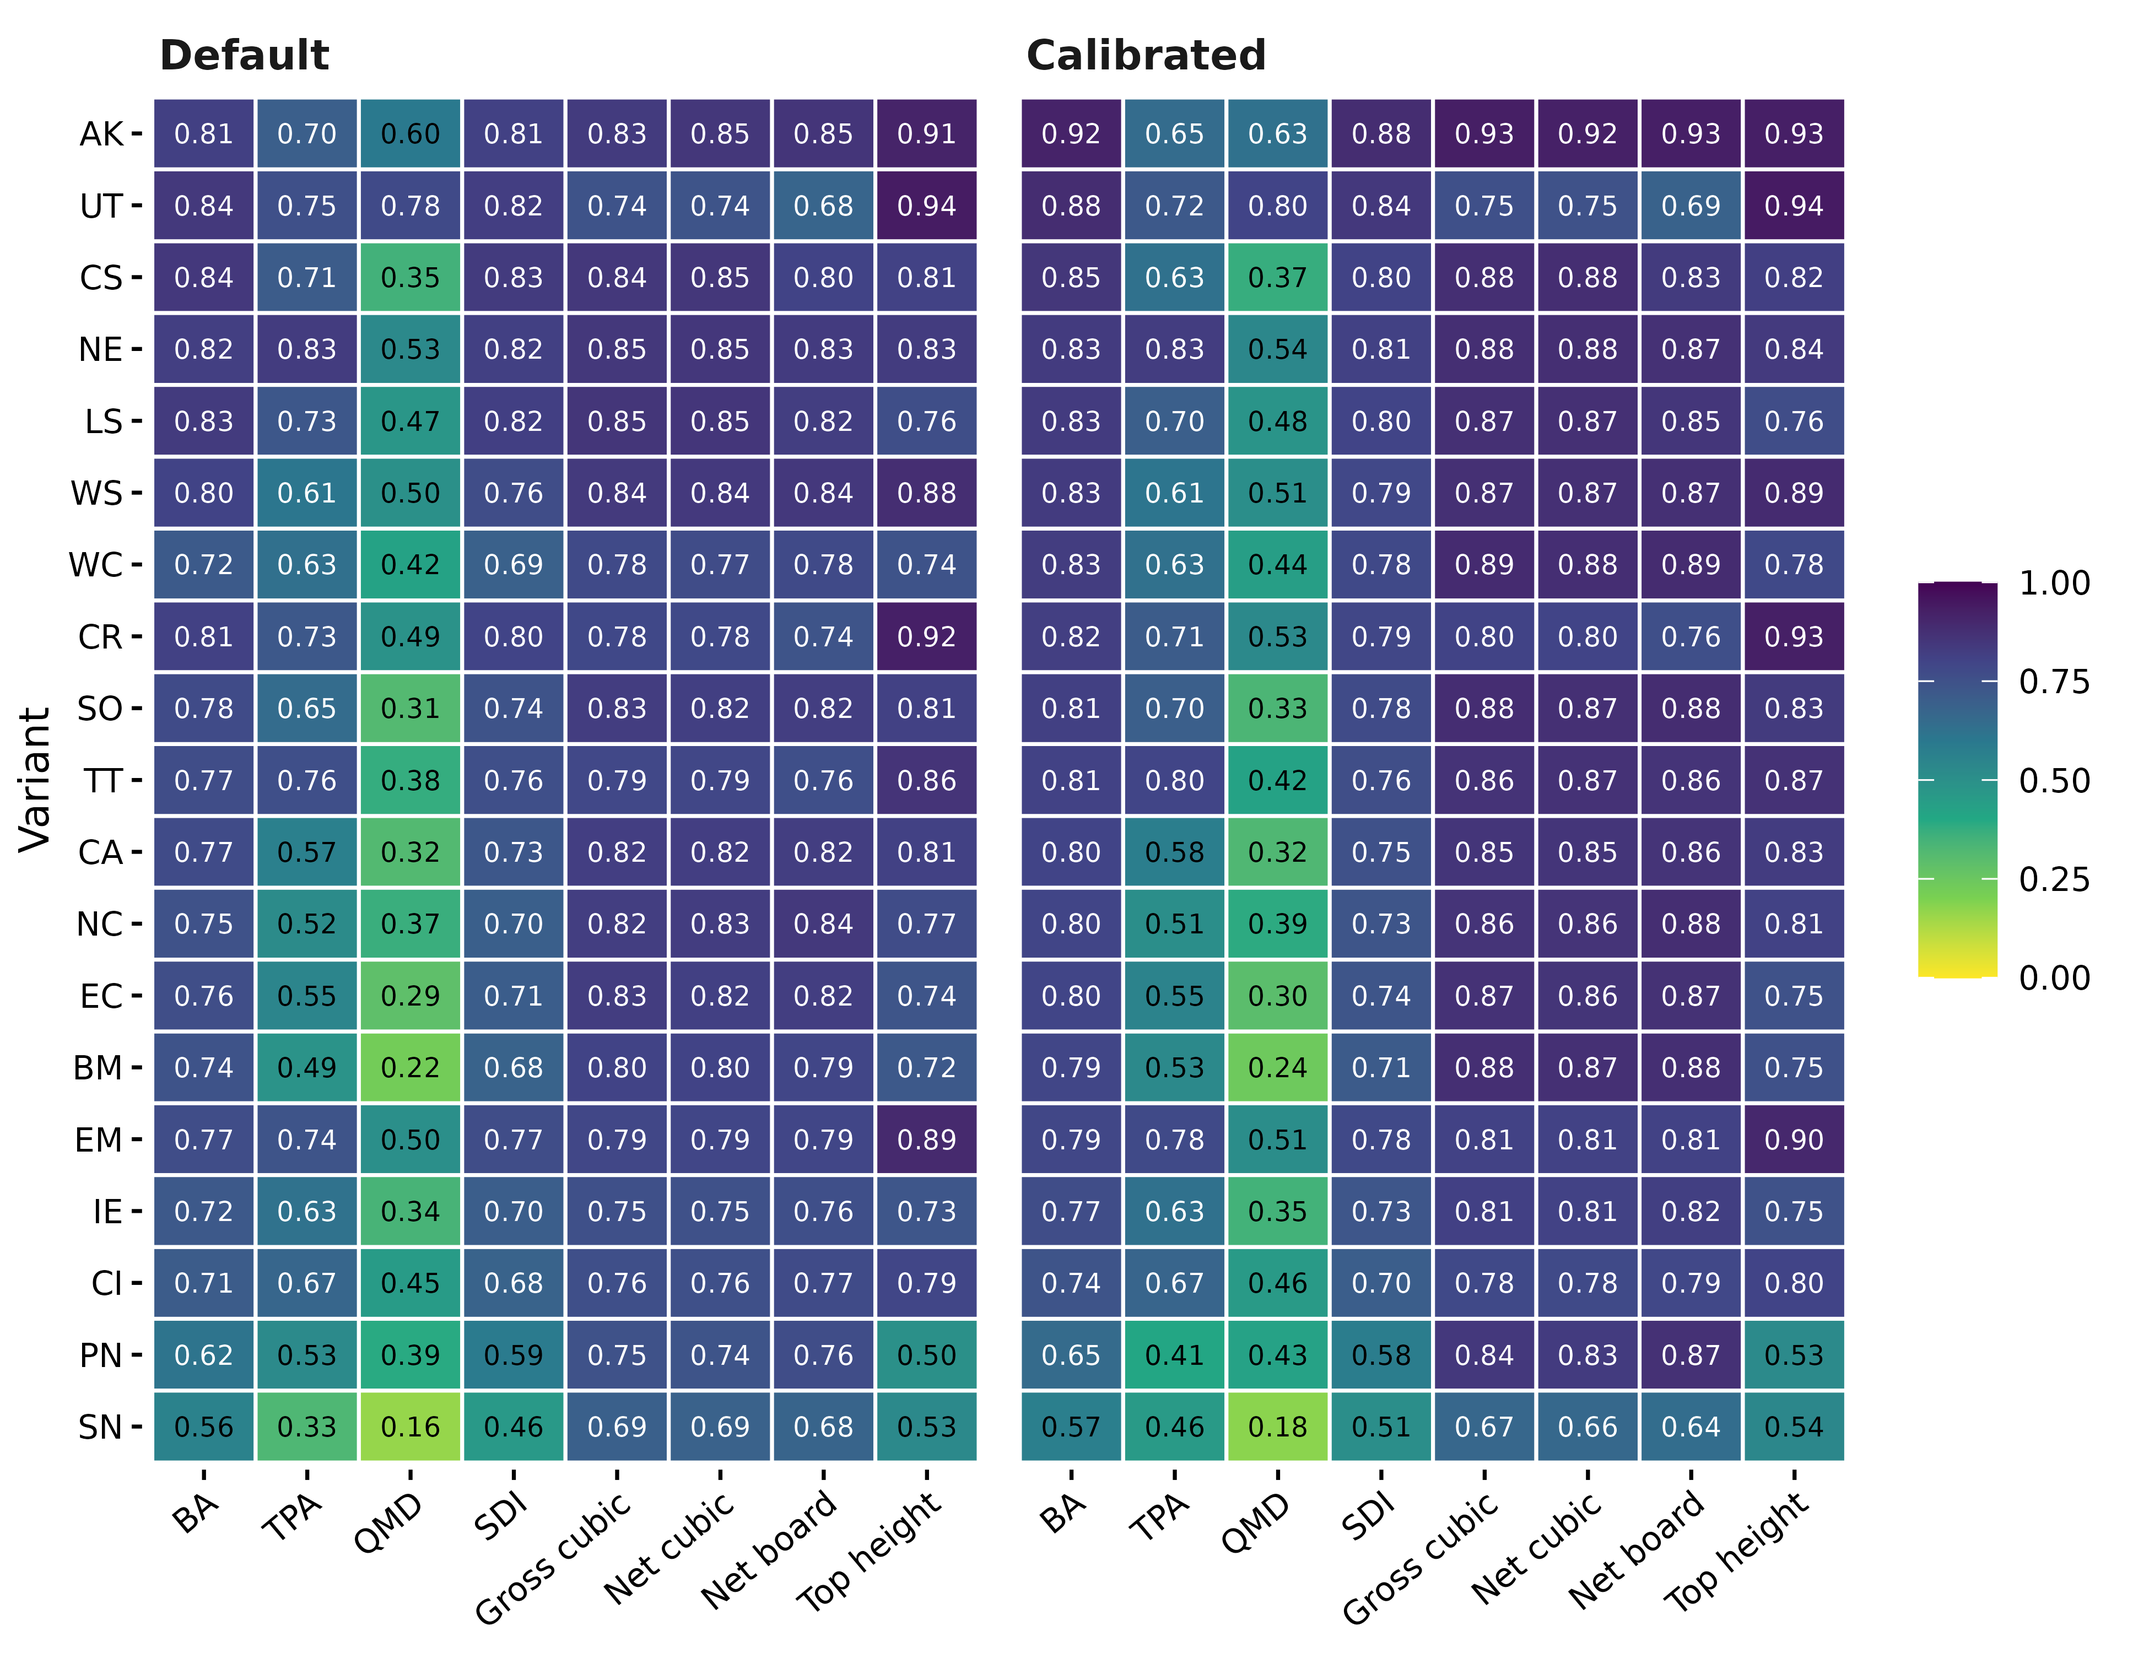
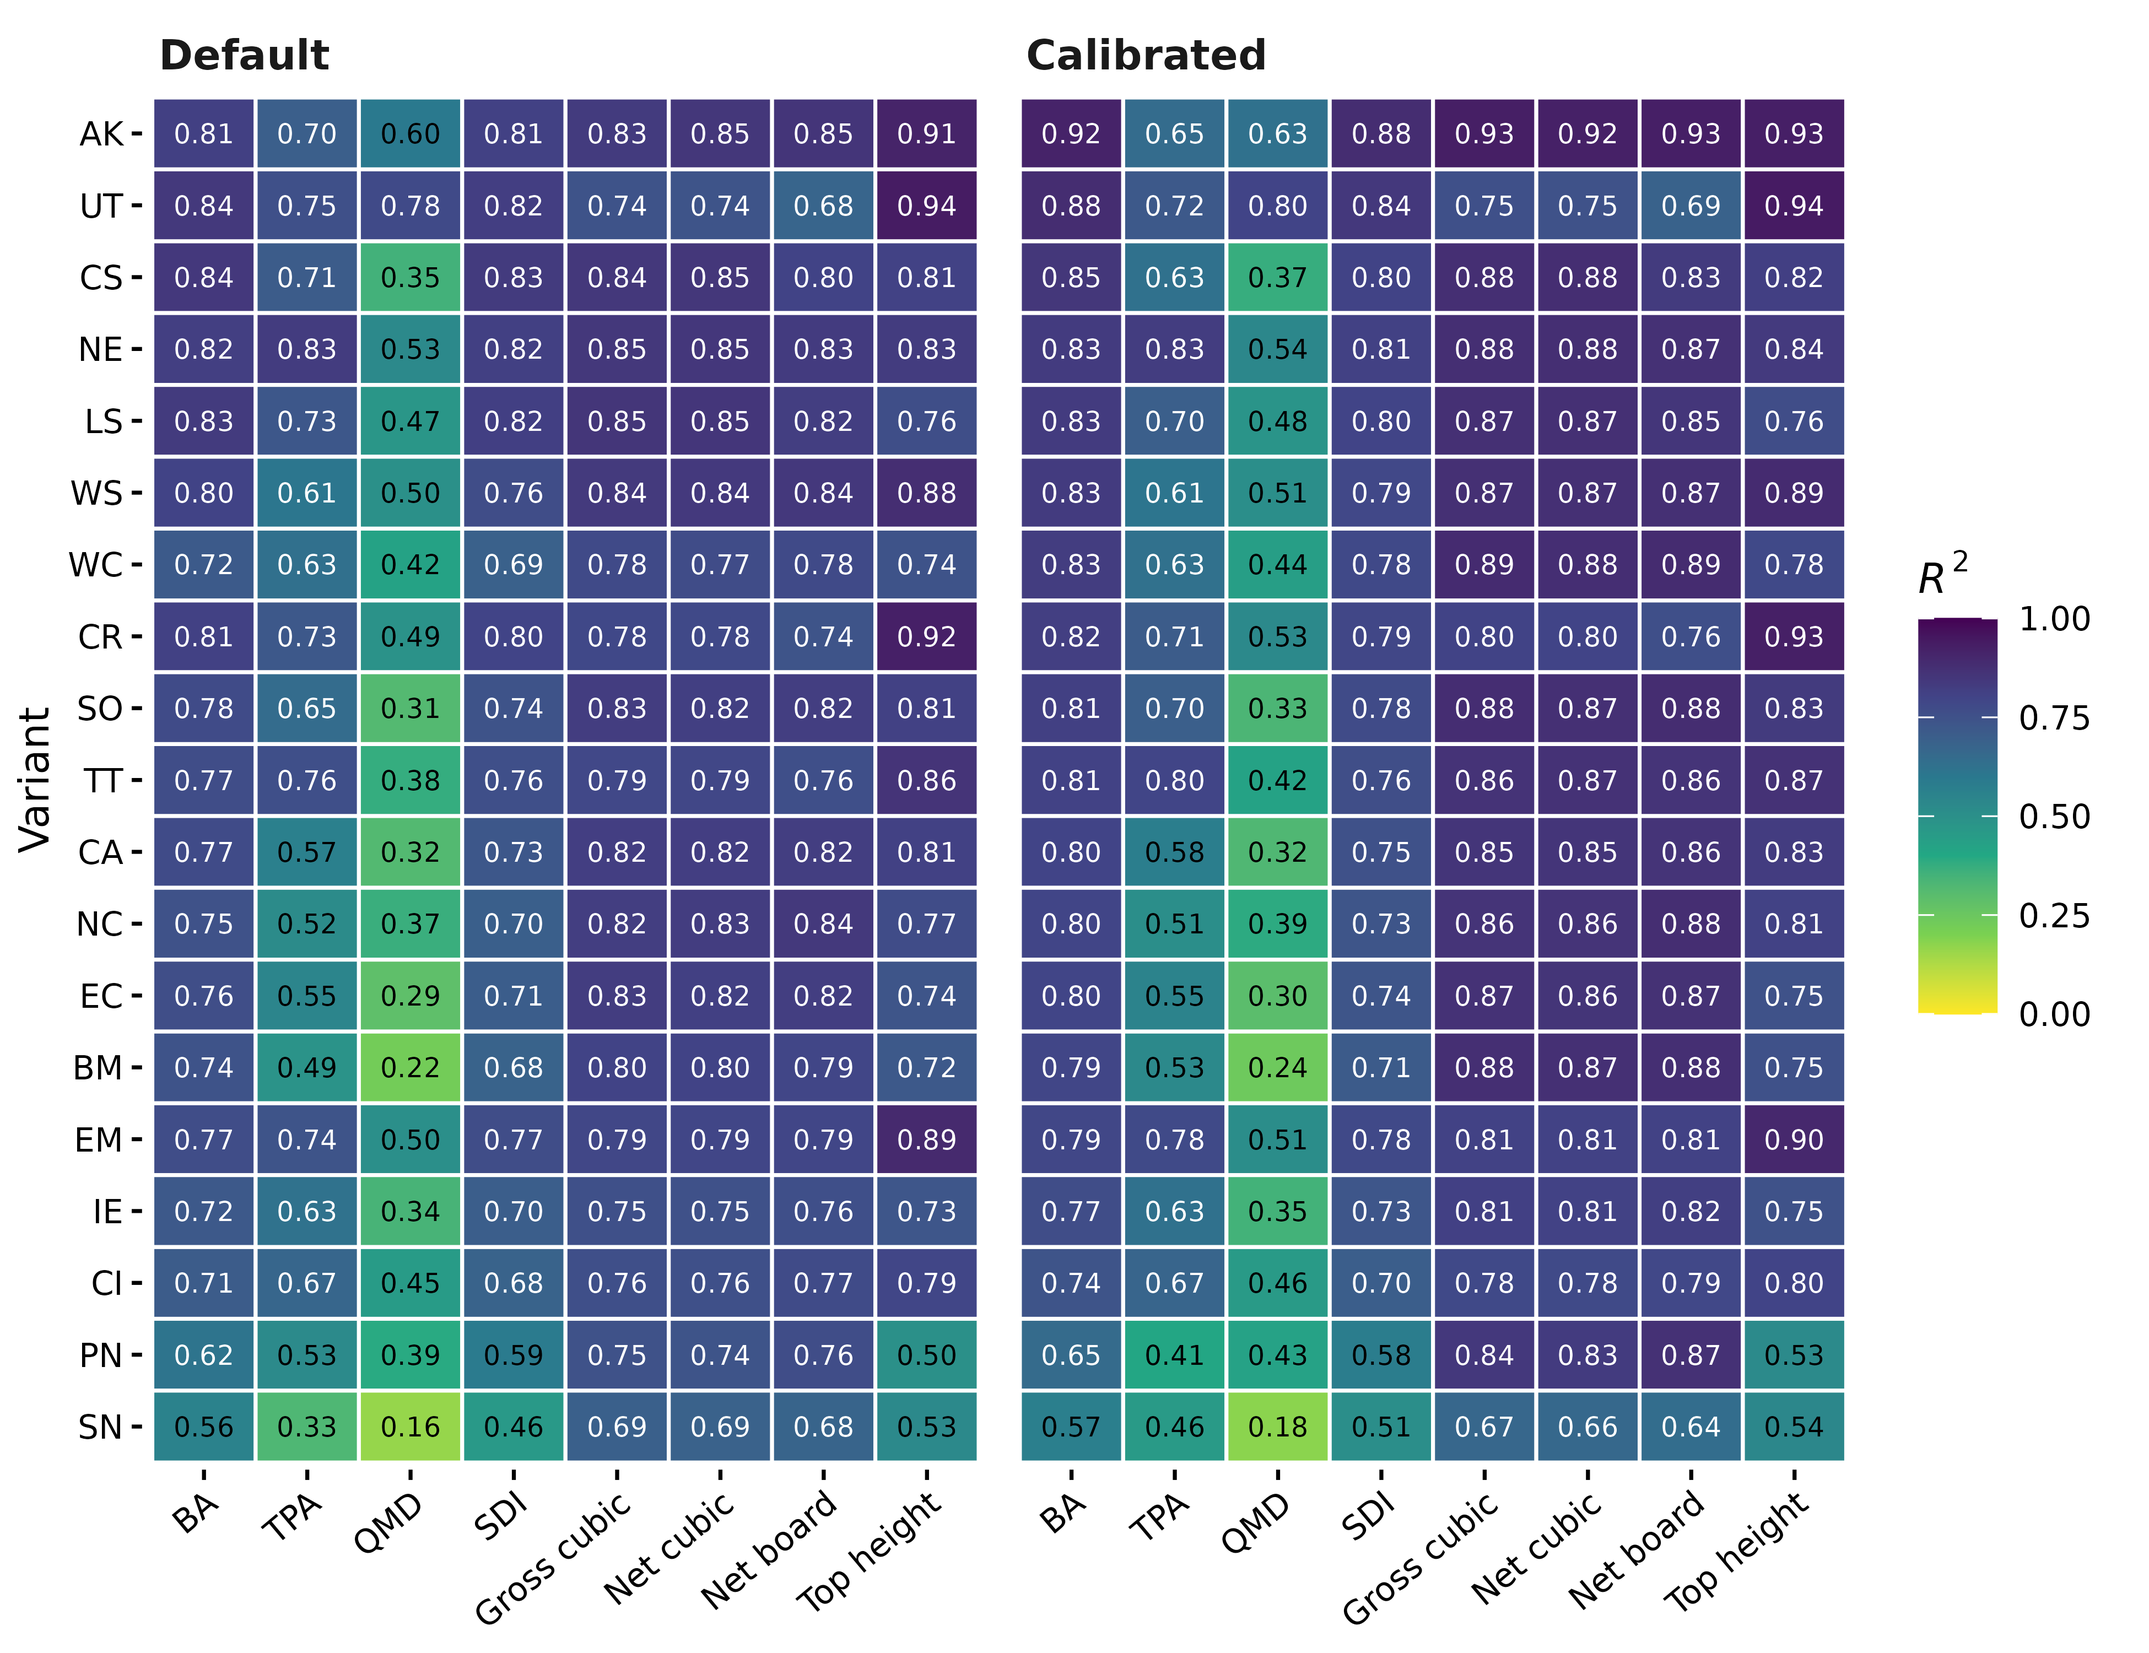
manuscript: Figure 3 by region from ablation_full, section 4.2 and Table 3 matched to component tables, Figure 5 legend
Claude-Session: https://claude.ai/code/session_01MGtWXxweVm1tRm13XUggpv

Changed region(s): [[0.8687, 0.496, 0.9928, 0.62], [0.8687, 0.341, 0.9618, 0.434], [0.9308, 0.465, 0.9618, 0.496]]

diff --git a/manuscript/fvs_combined_draft.md b/manuscript/fvs_combined_draft.md
@@ -550,44 +550,41 @@ modern workstation is 10 to 20 minutes.
 
 All 25 variants calibrated successfully for all seven components.
 Height to diameter models achieved R squared values ranging from
-0.74 (Alaska) to 0.90 (Klamath Mountains) with a mean of 0.85,
-compared to baseline models with mean R squared of 0.82. Wykoff
+0.75 (Eastern Montana) to 0.90 (Inland California and Southern
+Cascades) with a mean of 0.84, compared to baseline models with mean
+R squared of 0.81. Wykoff
 diameter growth fits achieved a mean R squared of 0.56 (SD 0.10,
 range 0.31 to 0.69), with the strongest fits in the Acadian (0.69),
 Klamath Mountains (0.68), Westside Cascades (0.68), ORGANON Pacific
 Northwest (0.66), and Northeast (0.65) variants and the weakest in the more
 arid and topographically variable variants (BC 0.31, PN as a value
 of 0.34 reflects the subset retained after the 5K subsample fallback,
-UT 0.40, CR 0.41, BM 0.45). Mortality AUC values ranged from 0.66
-(Southern Old Growth) to 0.93 (British Columbia, Ontario, Acadian)
-with a mean of 0.78, with 15 of 25 variants exceeding 0.85. These
-v2 figures are computed on the full FIA dataset with posterior
-median coefficients and are not directly comparable to the v1
-internal AUC of 0.766 reported in an earlier draft, which was
-evaluated on a balanced subsample with 1:1 alive-to-dead matching.
-The v2 numbers are the more conservative and operationally
-relevant: balanced-subsample AUC overstates the prevalence-corrected
-discriminatory ability when applied to whole-stand projections,
-where dead trees are the minority class. Per-variant v1 vs v2
-deltas computed on the common holdout set range from -0.020 to
-+0.004 AUC, confirming that the apparent regression in the headline
-figure is entirely a sampling-protocol artifact rather than a
-genuine loss of model quality. Crown
-ratio change R squared averaged 0.23 under the v1 delta model and
-0.53 under the v2 Beta regression on crown ratio level, a 142
-percent relative improvement that holds across all 25 variants;
-the v2 specification is consistent with the inherently bounded
-nature of crown ratio as a level rather than as a change. The
-largest gains accrued to the western and arid variants. UT, EM,
-CR, KT, and AK each saw v2 R squared above 0.60 (relative
-improvements ranging from 237 to 346 percent), confirming that
-the bounded Beta likelihood is particularly informative where
+UT 0.40, CR 0.41, BM 0.45). Mortality AUC, evaluated on a
+balanced subsample with 1:1 alive-to-dead matching (v1), ranged
+from 0.66 (Inland California and Southern Cascades) to 0.93
+(Acadian) with a mean of 0.77, and 7 of 25 variants exceeded 0.85
+(Alaska, Pacific Northwest Coast, Central States, Lake States,
+Ontario, Northeast, and Acadian). Balanced-subsample AUC overstates
+discrimination in whole-stand projections, where dead trees are the
+minority class, so seven western variants were also scored on the
+full FIA data with posterior median coefficients (v2). Their AUC
+ranged from 0.64 to 0.71 (mean 0.67), between 0.001 and 0.020 below
+the v1 values for the same variants, so the change in protocol
+lowers AUC only slightly. Crown
+ratio change R squared averaged 0.24 under the v1 delta model and
+0.53 under the v2 Beta regression on crown ratio level. R squared
+rose in all 25 variants, by 142 percent on average across variants,
+consistent with the inherently bounded nature of crown ratio as a
+level rather than as a change. The largest gains accrued to western
+variants. AK, WS, EM, KT, UT, and CR reached v2 R squared above
+0.60, with relative improvements from 159 to 347 percent, consistent
+with the bounded Beta likelihood is particularly informative where
 inter-tree crown ratio variance is high and the v1 normal-on-delta
 specification was furthest from the response support. Figure 6a
 visualizes the per-variant v1 to v2 improvement as a dumbbell plot;
 no variant moved backward.
 
-![Figure 6a. Crown ratio R squared by variant under the v1 delta-CR Normal regression (open marker) and the v2 level-CR Beta regression (filled marker). The v2 specification improves R squared in every variant; the largest gains occur in the arid and high-elevation variants (UT, EM, CR, KT, AK) where the bounded support of the response is most informative.](../calibration/output/comparisons/manuscript_figures/fig_cr_v1_v2_comparison.png){width=6in} Stand
+![Figure 6a. Crown ratio R squared by variant under the v1 delta-CR Normal regression (open marker) and the v2 level-CR Beta regression (filled marker). The v2 specification improves R squared in every variant; the largest relative gains occur in AK, WS, EM, and KT.](../calibration/output/comparisons/manuscript_figures/fig_cr_v1_v2_comparison.png){width=6in} Stand
 density index maximum estimates were 10 to 43 percent lower than
 defaults across variants, suggesting that prior parameter sets
 systematically overestimated carrying capacity. Height increment
@@ -600,10 +597,10 @@ Table 3. Calibration quality summary by component across variants.
 
 | Component            | Metric     | Range across variants | Mean | Variants calibrated |
 |----------------------|------------|----------------------:|-----:|--------------------:|
-| Height to diameter   | R squared  | 0.74 to 0.90          | 0.85 | 25                  |
+| Height to diameter   | R squared  | 0.75 to 0.90          | 0.84 | 25                  |
 | Diameter growth      | R squared  | 0.31 to 0.69          | 0.56 | 25                  |
-| Mortality            | AUC        | 0.66 to 0.93          | 0.78 | 25                  |
-| Crown ratio change   | R squared  | 0.14 to 0.38          | 0.23 | 25                  |
+| Mortality            | AUC (v1)   | 0.66 to 0.93          | 0.77 | 25                  |
+| Crown ratio change   | R squared  | 0.14 to 0.38          | 0.24 | 25                  |
 | Stand density max    | SDI delta  | 10 to 43 percent lower| 22   | 25                  |
 | Height increment     | R squared  | 0.22 to 0.30          | 0.25 | 6                   |
 | Self thinning slope  | b departure| -0.12 to +0.09        | -0.04| 25                  |
@@ -660,13 +657,14 @@ Table 1. FIA national benchmark results summary (19 variants).
 
 Figure 2 shows basal area and gross cubic foot volume RMSE per
 variant under default and calibrated parameters, with 95 percent
-bootstrap intervals on the calibrated RMSE. Figure 3 is the accompanying
-geographic view: a hex binned CONUS map of composite RMSE reduction
-after calibration, showing that improvement is widespread but
-strongest in the Westside Cascades (WC) and Alaska, followed by the
-Klamath Mountains and portions of the Inland West. The Pacific
-Northwest Coast (PN) gain is small, and its bootstrap interval
-includes zero. Figure 4 compares a composite percent RMSE, the
+bootstrap intervals on the calibrated RMSE. Figure 3 groups the
+percent reduction in basal area RMSE by region. Improvement is
+strongest in Alaska and the Westside Cascades (WC), followed by Utah,
+with the Klamath and Blue Mountains near 10 percent, and is small in
+the eastern variants. The
+interval includes zero in nine variants, among them the Pacific
+Northwest Coast (PN), where the reduction cannot be distinguished
+from no change. Figure 4 compares a composite percent RMSE, the
 equally weighted mean of percent RMSE for basal area, stand density
 index, quadratic mean diameter, and gross cubic foot volume. The
 composite fell in all 19 variants, by 8.5 percentage points in Alaska
@@ -676,7 +674,7 @@ parameter sets.
 
 ![Figure 2. Internal FIA benchmark RMSE by variant for (a) basal area (ft² ac⁻¹) and (b) gross cubic foot volume (ft³ ac⁻¹) under default (open circles) and calibrated (filled circles) parameters. Bars are 95 percent percentile intervals from 1,000 bootstrap resamples of conditions on the calibrated RMSE. Variants are ordered by percent reduction in basal area RMSE. Values are in sample (see §3.1).](figures_20261019/fig2_benchmark_rmse.png){width=6.5in}
 
-![Figure 3. CONUS spatial distribution of percent RMSE reduction after Bayesian calibration, hex binned over FIA plot locations. Blue indicates larger reductions; red indicates the small number of plots where default outperformed calibrated. Largest improvements appear in the Westside Cascades, Alaska proxy, and portions of the Northeast. The Pacific Northwest Coast (PN) gain is small, and its bootstrap interval includes zero.](../calibration/output/comparisons/manuscript_figures/pctrmse_reduction_spatial.png){width=6.5in}
+![Figure 3. Percent reduction in basal area RMSE after calibration by variant, grouped by region, with 95 percent percentile intervals from 1,000 bootstrap resamples of conditions on the calibrated RMSE. Grey marks variants whose interval includes zero. Values are in sample (see §3.1).](figures_20261019/fig3_ba_rmse_reduction_by_region.png){width=6.5in}
 
 ![Figure 4. Composite percent RMSE by variant under default (open circles) and calibrated (filled circles) parameters. The composite is the equally weighted mean of percent RMSE (RMSE as a percentage of the observed mean) for basal area, stand density index, quadratic mean diameter, and gross cubic foot volume. Composite error was lower after calibration in all 19 variants, and variants are ordered by the size of the reduction.](figures_20261019/fig4_composite_pctrmse_dumbbell.png){width=6.5in}
 
@@ -981,7 +979,8 @@ The Chapman Richards height to diameter model contributes the next
 largest share, largely by reducing systematic negative bias in tree
 height estimates that otherwise propagate into volume calculations.
 The mortality calibration delivered high classification accuracy
-(mean AUC 0.78, with 15 variants above 0.85) primarily through
+(mean AUC 0.77 on balanced subsamples, with 7 variants above 0.85)
+primarily through
 species random intercepts and competition covariates rather than
 through the full 13 covariate specification, suggesting that
 relative competitive position is a more portable predictor of tree

diff --git a/manuscript/CHANGES_2026-10-19.md b/manuscript/CHANGES_2026-10-19.md
@@ -412,3 +412,15 @@ Diameter growth: the mean (0.56), SD (0.10), range (0.31 to 0.69), and the five 
 Left for Aaron, because the text and the tables disagree on values, not only labels:
 - Height to diameter: text says 0.74 (Alaska) to 0.90 (Klamath Mountains), mean 0.85, baseline mean 0.82. The table gives calibrated 0.75 (EM) to 0.898 (CA), mean 0.837, and baseline mean 0.807 (AK calibrated is 0.795, NC 0.890).
 - Mortality: text says v2 AUC from 0.66 ("Southern Old Growth", not a variant) to 0.93 (British Columbia, Ontario, Acadian), mean 0.78, 15 of 25 above 0.85. The v1 column gives 0.66 (CA) to 0.934 (ACD), mean 0.766, 7 of 25 above 0.85, with BC at 0.707. The v2 file (`mortality_v2_auc_full.csv`) has AUC for 7 western variants only (0.64 to 0.71). The sentence needs the source of its v2 values or a rewrite to the v1 table.
+
+## Third pass (October 19, 2026, evening)
+
+Backup: `fvs_combined_draft_PREV_20261019c.md`.
+
+§4.2 and Table 3 rewritten to `table2_full_performance.csv` and `table3_component_summary.csv`, the only per-variant component tables in the repository:
+- Height to diameter: 0.75 (Eastern Montana) to 0.90 (Inland California and Southern Cascades), mean 0.84, baseline mean 0.81 (was 0.74 Alaska to 0.90 Klamath Mountains, mean 0.85, baseline 0.82).
+- Mortality: the 25-variant values are v1 balanced-subsample AUC, 0.66 (CA) to 0.93 (ACD), mean 0.77, 7 of 25 above 0.85. The v2 full-data refit exists for seven western variants only (`mortality_v2_auc_full.csv`): 0.64 to 0.71, mean 0.67, 0.001 to 0.020 below v1. The old text (v2 for 25 variants, mean 0.78, 15 above 0.85, "Southern Old Growth", BC at 0.93, deltas to +0.004) had no source in the repository and was replaced. Table 3 and the Discussion sentence were changed to match.
+
+Figure 3: the plot-level file behind the hex map is not on Cardinal, and firebreather still refuses port 22, so the map cannot be rebuilt from the current run. Figure 3 is now the percent basal area RMSE reduction with 95 percent bootstrap intervals by variant, grouped into Pacific, Interior West, and East, built from ablation_full (`fig3_ba_rmse_reduction_by_region`). The hex map can return as a supplementary figure once `validation_data_ablation_full.csv` is found and `23_pctrmse_benchmark_maps.R` is rerun.
+
+Crown ratio: 142 percent is the mean of per-variant relative improvements (the ratio of means is 122 percent), so the sentence now says "on average across variants". The v1 mean is 0.237, now 0.24 in the text and Table 3. The list of variants above 0.60 was wrong (it omitted WS, and UT and CR gained 182 and 159 percent, below the stated 237 to 346), and now reads AK, WS, EM, KT, UT, and CR with gains of 159 to 347 percent. The Figure 6a caption names the four largest relative gains (AK, WS, EM, KT).
